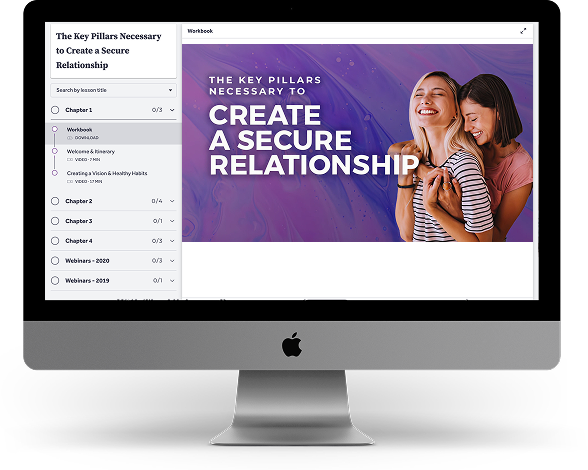
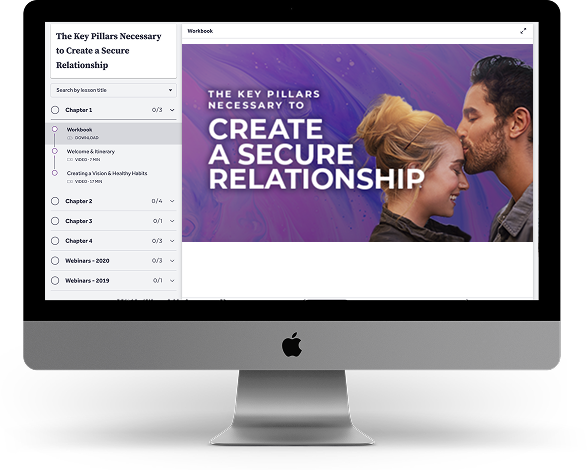
GM-1813 updated assets

Changed region(s): [[0.3367, 0.1191, 0.9184, 0.5362]]

diff --git a/app/(custom-layouts)/(no-header)/dream-life-pillars-course/page.tsx b/app/(custom-layouts)/(no-header)/dream-life-pillars-course/page.tsx
@@ -119,6 +119,8 @@ export default function DreamLifeFreeCoursePage() {
               src="/images/TrialHeadspace/secure-pillars-mockup.png"
               width={588}
               height={470}
+              quality={100}
+              sizes="100vw"
             />
           </div>
         </div>
